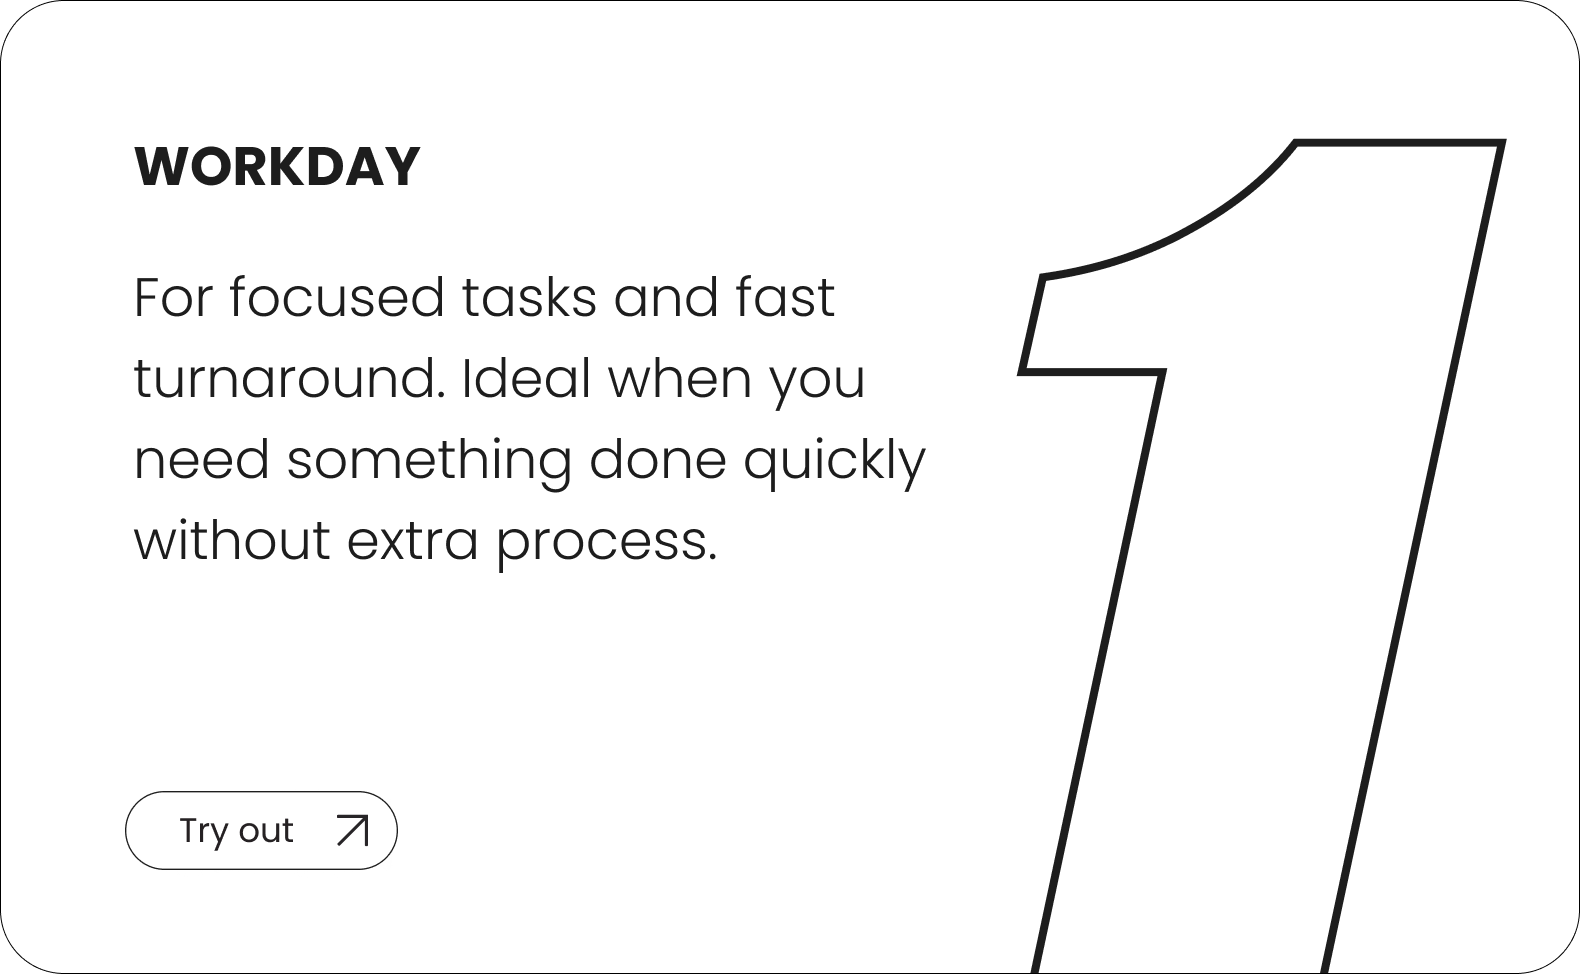
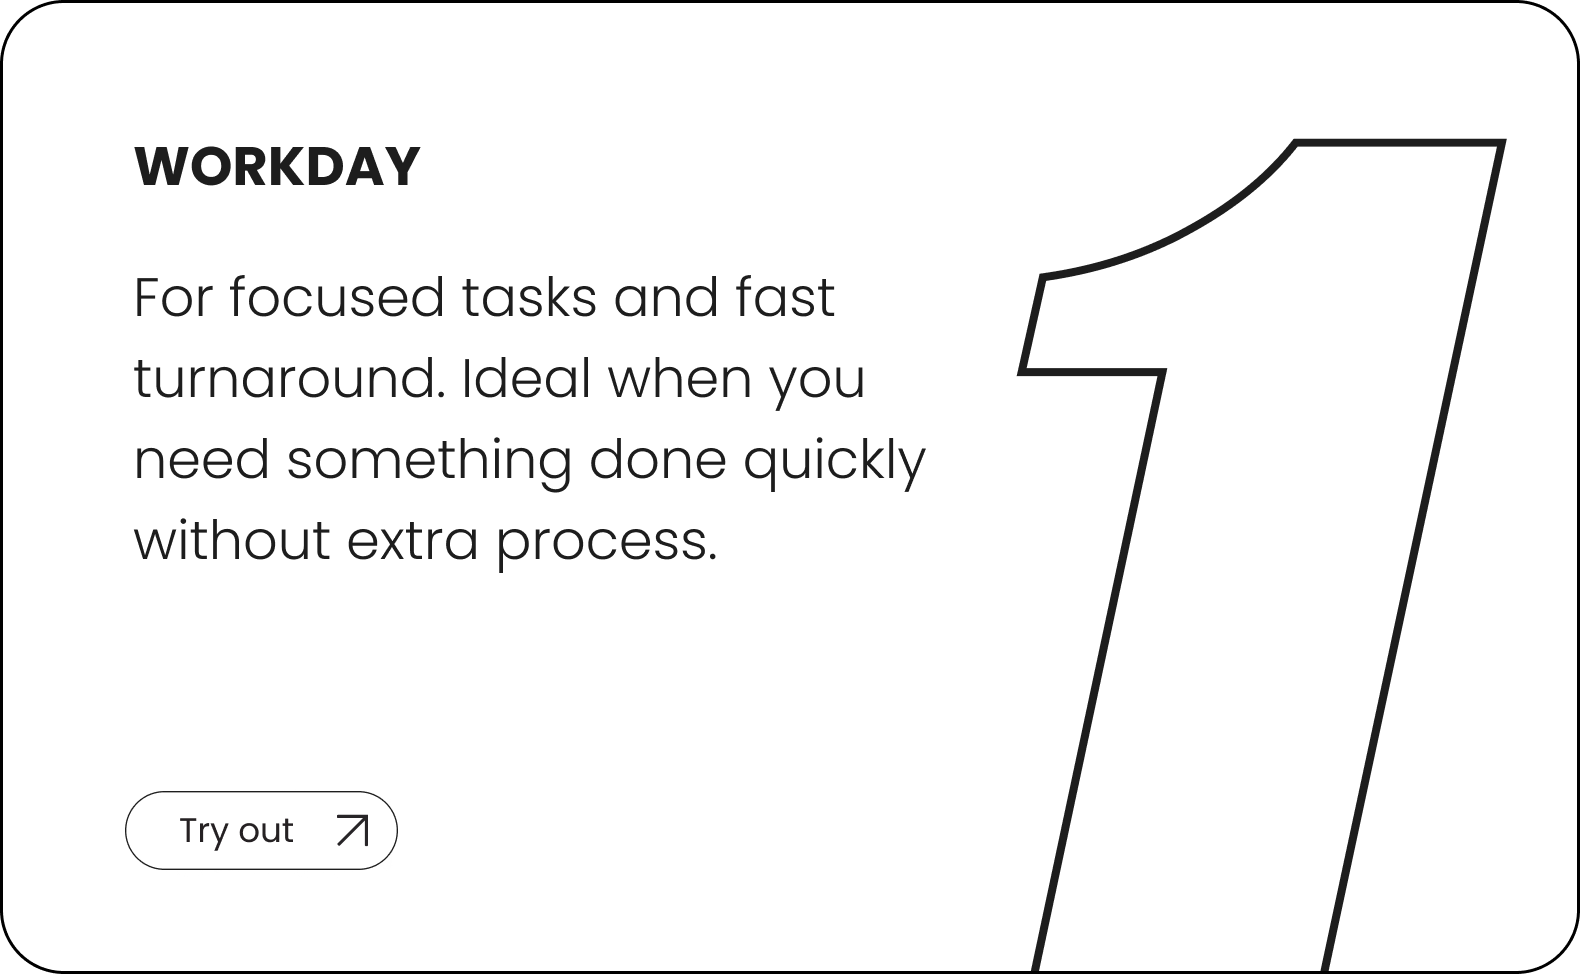
MVP-76

Changed region(s): [[0.0, 0.9856, 0.9924, 1.0], [0.9924, 0.0308, 1.0, 0.9856], [0.9614, 0.0, 0.9924, 0.0308]]

diff --git a/styles.css b/styles.css
@@ -386,6 +386,64 @@
 
 
 /* =========================================
+   ПОРТФОЛИО: ФИКС УЕЗЖАНИЯ ВЛЕВО
+   ========================================= */
+.portfolio-slider-wrap {
+  width: 100% !important;
+  overflow: hidden !important;
+  /* Отступы задаем только для родителя, не для обертки слайдера */
+  padding-inline: 20px !important; 
+  margin-left: 0 !important;
+}
+
+.portfolio-slider-wrap .swiper-wrapper {
+  display: flex !important;
+  /* Важно: никакого margin-left на обертке! */
+  margin-left: 0 !important; 
+}
+
+.portfolio-slider-wrap .swiper-slide {
+  /* Слайд должен физически занимать 100% ширины, 
+     а визуально сжиматься для красоты */
+  width: 90% !important; 
+  display: flex !important;
+  justify-content: center !important;
+}
+
+
+/* Делаем кнопки навигации всегда доступными для клика */
+.reviews-next, .reviews-prev, 
+.portfolio-nav button, 
+.service-card .next, .service-card .prev {
+    position: relative;
+    z-index: 1000 !important;
+    pointer-events: auto !important;
+    cursor: pointer !important;
+}
+
+
+/* По умолчанию показываем десктопный вариант */
+img.logo-mobile {
+    display: none;
+}
+
+img.logo-desktop {
+    width: 90vw !important;
+}
+
+@media (max-width: 767px) {
+    .logo-desktop { display: none; }
+    .logo-mobile { display: block; }
+}
+
+
+.portfolio-card, .portfolio-slide {
+    box-sizing: border-box; /* Это критически важно! */
+}
+
+
+
+/* =========================================
    ЗАГОЛОВКИ РАЗДЕЛОВ (services-header-grid) - ОПТИМАЛЬНЫЕ
    ========================================= */
 
@@ -3012,10 +3070,6 @@ div#services-counter {
   opacity: 0.6;
 }
 
-.logo-desktop {
-  max-width: 90%;
-  height: auto;
-}
 
 /* Позиционирование кнопок навигации */
 .reviews-nav {
@@ -5373,54 +5427,3 @@ body.mode-form .topbar {
 }
 
 
-/* =========================================
-   ПОРТФОЛИО: ФИКС УЕЗЖАНИЯ ВЛЕВО
-   ========================================= */
-.portfolio-slider-wrap {
-  width: 100% !important;
-  overflow: hidden !important;
-  /* Отступы задаем только для родителя, не для обертки слайдера */
-  padding-inline: 20px !important; 
-  margin-left: 0 !important;
-}
-
-.portfolio-slider-wrap .swiper-wrapper {
-  display: flex !important;
-  /* Важно: никакого margin-left на обертке! */
-  margin-left: 0 !important; 
-}
-
-.portfolio-slider-wrap .swiper-slide {
-  /* Слайд должен физически занимать 100% ширины, 
-     а визуально сжиматься для красоты */
-  width: 90% !important; 
-  display: flex !important;
-  justify-content: center !important;
-}
-
-
-/* Делаем кнопки навигации всегда доступными для клика */
-.reviews-next, .reviews-prev, 
-.portfolio-nav button, 
-.service-card .next, .service-card .prev {
-    position: relative;
-    z-index: 1000 !important;
-    pointer-events: auto !important;
-    cursor: pointer !important;
-}
-
-
-/* По умолчанию показываем десктопный вариант */
-img.logo-mobile {
-    display: none;
-}
-
-@media (max-width: 767px) {
-    .logo-desktop { display: none; }
-    .logo-mobile { display: block; }
-}
-
-
-.portfolio-card, .portfolio-slide {
-    box-sizing: border-box; /* Это критически важно! */
-}
